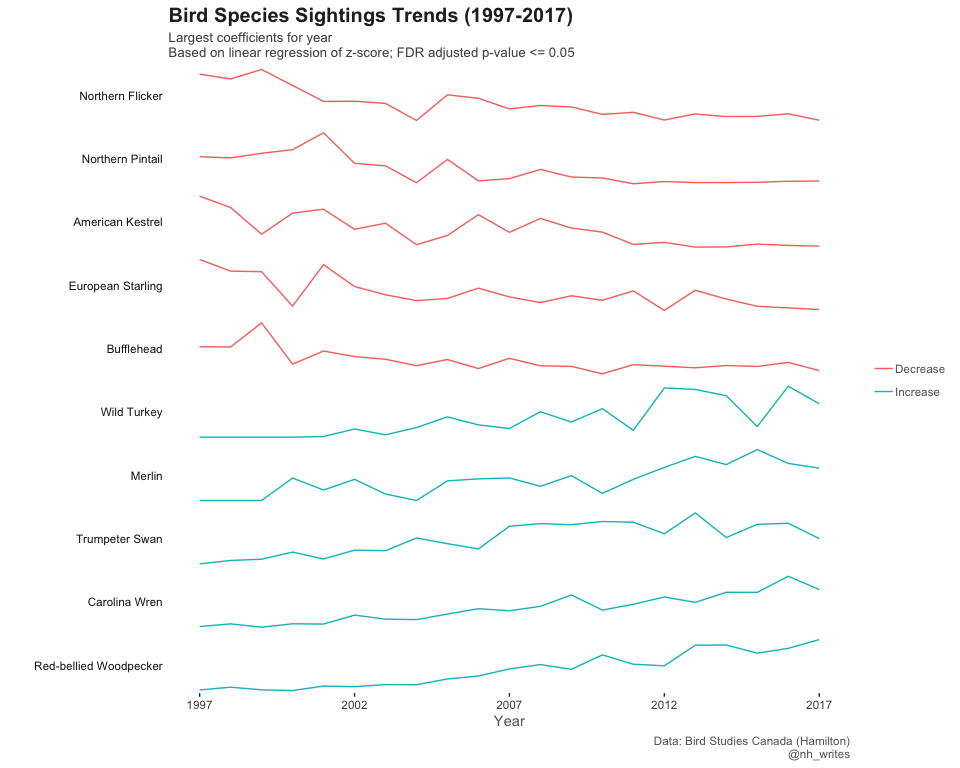
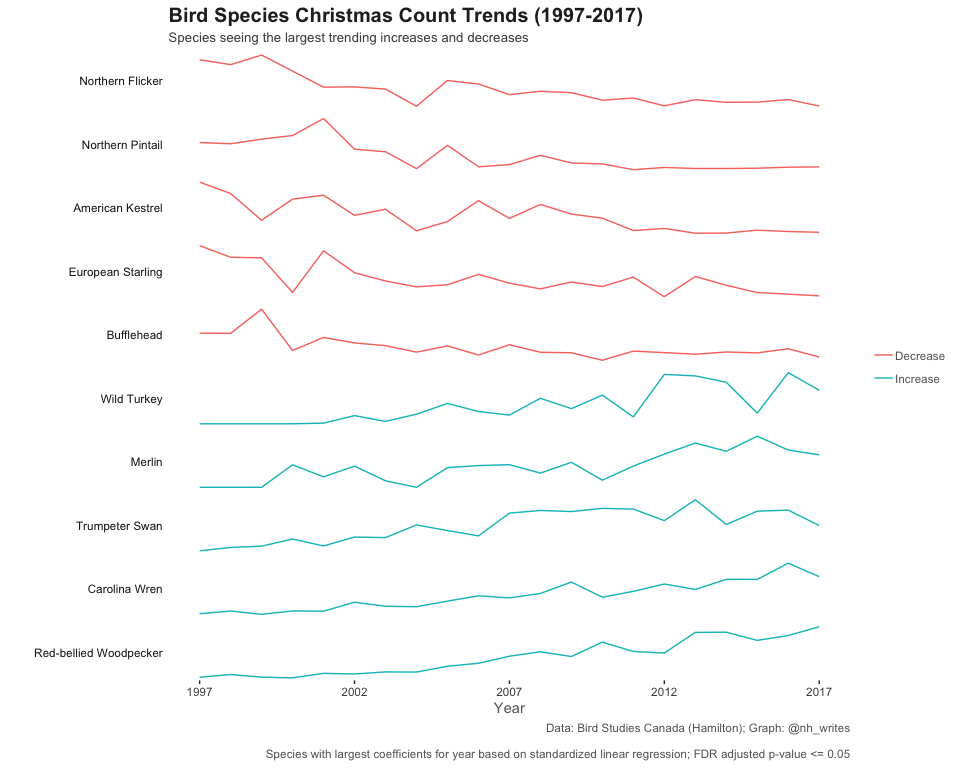
Christmas Bird Counts updated

diff --git a/2019-25/christmas_bird_count.md b/2019-25/christmas_bird_count.md
@@ -75,10 +75,6 @@ bird_counts %>%
 
 ![](christmas_bird_count_files/figure-markdown_github/bird_trends_sparklines-1.png)
 
-``` r
-#ggsave("bird_trends.png", device = "png", units = "cm", width = 29, height = 21, dpi = "retina")
-```
-
 The issue I have with the above analysis is that `how_many_counted_by_hour` isn't scaled; the European Starling has the largest negative coefficient of -5.29 but it is worth noting that it is also one of the most commonly sighted species. This means that as the year increases there are 5.29 fewer sightings of European Starling per hour of observation, but how is this relative to other species like the Northern Flicker which has a coefficient of -0.004 but is not as commonly sighted. The decreasing trend may be very similar, but I can't tell from the coefficient. I try to address this issue below by standardizing `how_many_counted_by_hour` for each species using z-score. There are some differences in top and bottom 5 species compared with the above chart.
 
 ``` r
@@ -113,10 +109,11 @@ bird_counts %>%
   geom_line() +
   facet_wrap(~ species, ncol = 1, scales = "free_y", strip.position = "left") +
   scale_x_continuous(name = "Year", breaks = seq(1997, 2017, 5)) +
-  labs(y = "",
-       title = "Bird Species Sightings Trends (1997-2017)",
-       subtitle = "Largest coefficients for year \nBased on linear regression of z-score; FDR adjusted p-value <= 0.05",
-       caption = "Data: Bird Studies Canada (Hamilton)\n@nh_writes") +
+  labs(y = "", 
+       title = "Bird Species Christmas Count Trends (1997-2017)",
+       subtitle = "Species seeing the largest trending increases and decreases",
+       caption = "Data: Bird Studies Canada (Hamilton); Graph: @nh_writes\n
+                  Species with largest coefficients for year based on standardized linear regression; FDR adjusted p-value <= 0.05") +
   nh_theme +
   theme(strip.text.y = element_text(angle = 180, hjust = 1), #make strip text horizontal
         strip.background = element_rect(fill = "white"),
@@ -128,6 +125,10 @@ bird_counts %>%
 ```
 
 ![](christmas_bird_count_files/figure-markdown_github/bird_trends_z_sparklines-1.png)
+
+``` r
+#ggsave("bird_trends.png", device = "png", units = "cm", width = 29, height = 21, dpi = "retina")
+```
 
 References
 ----------
